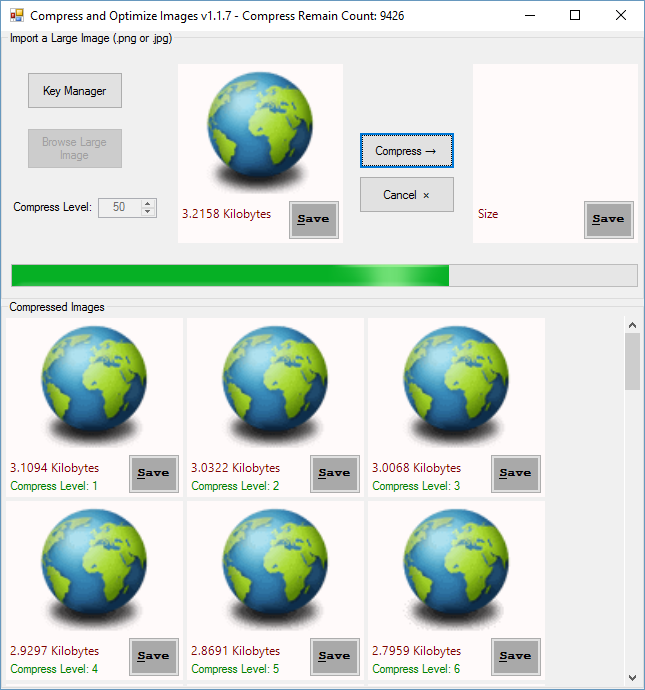
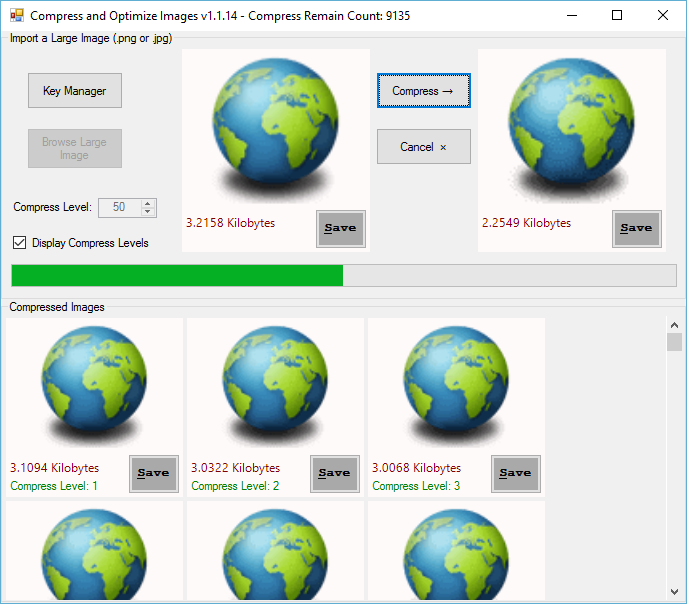
fix key count completed bugs

diff --git a/src/PiCompress/MainForm.Designer.cs b/src/PiCompress/MainForm.Designer.cs
@@ -29,6 +29,7 @@
         private void InitializeComponent()
         {
             this.gbImportImage = new System.Windows.Forms.GroupBox();
+            this.chkDisplayLevelsResult = new System.Windows.Forms.CheckBox();
             this.btnCancel = new System.Windows.Forms.Button();
             this.btnKeyManager = new System.Windows.Forms.Button();
             this.procCompressLevel = new System.Windows.Forms.ProgressBar();
@@ -47,6 +48,7 @@
             // 
             // gbImportImage
             // 
+            this.gbImportImage.Controls.Add(this.chkDisplayLevelsResult);
             this.gbImportImage.Controls.Add(this.btnCancel);
             this.gbImportImage.Controls.Add(this.btnKeyManager);
             this.gbImportImage.Controls.Add(this.picOutput);
@@ -61,17 +63,29 @@
             this.gbImportImage.Margin = new System.Windows.Forms.Padding(4);
             this.gbImportImage.Name = "gbImportImage";
             this.gbImportImage.Padding = new System.Windows.Forms.Padding(4);
-            this.gbImportImage.Size = new System.Drawing.Size(857, 331);
+            this.gbImportImage.Size = new System.Drawing.Size(911, 331);
             this.gbImportImage.TabIndex = 0;
             this.gbImportImage.TabStop = false;
             this.gbImportImage.Text = "Import a Large Image (.png or .jpg)";
+            // 
+            // chkDisplayLevelsResult
+            // 
+            this.chkDisplayLevelsResult.AutoSize = true;
+            this.chkDisplayLevelsResult.Checked = true;
+            this.chkDisplayLevelsResult.CheckState = System.Windows.Forms.CheckState.Checked;
+            this.chkDisplayLevelsResult.Location = new System.Drawing.Point(16, 251);
+            this.chkDisplayLevelsResult.Name = "chkDisplayLevelsResult";
+            this.chkDisplayLevelsResult.Size = new System.Drawing.Size(188, 21);
+            this.chkDisplayLevelsResult.TabIndex = 11;
+            this.chkDisplayLevelsResult.Text = "Display Compress Levels";
+            this.chkDisplayLevelsResult.UseVisualStyleBackColor = true;
             // 
             // btnCancel
             // 
             this.btnCancel.Anchor = System.Windows.Forms.AnchorStyles.Top;
             this.btnCancel.Cursor = System.Windows.Forms.Cursors.Hand;
             this.btnCancel.Enabled = false;
-            this.btnCancel.Location = new System.Drawing.Point(478, 178);
+            this.btnCancel.Location = new System.Drawing.Point(498, 119);
             this.btnCancel.Margin = new System.Windows.Forms.Padding(4);
             this.btnCancel.Name = "btnCancel";
             this.btnCancel.Size = new System.Drawing.Size(128, 46);
@@ -99,7 +113,7 @@
             this.procCompressLevel.Location = new System.Drawing.Point(13, 287);
             this.procCompressLevel.Margin = new System.Windows.Forms.Padding(4);
             this.procCompressLevel.Name = "procCompressLevel";
-            this.procCompressLevel.Size = new System.Drawing.Size(836, 28);
+            this.procCompressLevel.Size = new System.Drawing.Size(885, 28);
             this.procCompressLevel.TabIndex = 5;
             // 
             // btnCompress
@@ -107,7 +121,7 @@
             this.btnCompress.Anchor = System.Windows.Forms.AnchorStyles.Top;
             this.btnCompress.Cursor = System.Windows.Forms.Cursors.Hand;
             this.btnCompress.Enabled = false;
-            this.btnCompress.Location = new System.Drawing.Point(478, 124);
+            this.btnCompress.Location = new System.Drawing.Point(498, 51);
             this.btnCompress.Margin = new System.Windows.Forms.Padding(4);
             this.btnCompress.Name = "btnCompress";
             this.btnCompress.Size = new System.Drawing.Size(128, 46);
@@ -170,7 +184,7 @@
             this.gbResult.Margin = new System.Windows.Forms.Padding(4);
             this.gbResult.Name = "gbResult";
             this.gbResult.Padding = new System.Windows.Forms.Padding(4);
-            this.gbResult.Size = new System.Drawing.Size(857, 291);
+            this.gbResult.Size = new System.Drawing.Size(911, 336);
             this.gbResult.TabIndex = 1;
             this.gbResult.TabStop = false;
             this.gbResult.Text = "Compressed Images";
@@ -182,35 +196,35 @@
             this.flPanel.Location = new System.Drawing.Point(4, 19);
             this.flPanel.Margin = new System.Windows.Forms.Padding(4);
             this.flPanel.Name = "flPanel";
-            this.flPanel.Size = new System.Drawing.Size(849, 268);
+            this.flPanel.Size = new System.Drawing.Size(903, 313);
             this.flPanel.TabIndex = 0;
             // 
             // picOutput
             // 
             this.picOutput.Anchor = ((System.Windows.Forms.AnchorStyles)((System.Windows.Forms.AnchorStyles.Top | System.Windows.Forms.AnchorStyles.Right)));
             this.picOutput.BackColor = System.Drawing.Color.Snow;
-            this.picOutput.Location = new System.Drawing.Point(629, 41);
+            this.picOutput.Location = new System.Drawing.Point(633, 22);
             this.picOutput.Name = "picOutput";
-            this.picOutput.Size = new System.Drawing.Size(220, 220);
+            this.picOutput.Size = new System.Drawing.Size(250, 250);
             this.picOutput.TabIndex = 8;
             // 
             // picInput
             // 
             this.picInput.BackColor = System.Drawing.Color.Snow;
-            this.picInput.Location = new System.Drawing.Point(236, 41);
+            this.picInput.Location = new System.Drawing.Point(241, 22);
             this.picInput.Name = "picInput";
-            this.picInput.Size = new System.Drawing.Size(220, 220);
+            this.picInput.Size = new System.Drawing.Size(250, 250);
             this.picInput.TabIndex = 7;
             // 
             // MainForm
             // 
             this.AutoScaleDimensions = new System.Drawing.SizeF(8F, 16F);
             this.AutoScaleMode = System.Windows.Forms.AutoScaleMode.Font;
-            this.ClientSize = new System.Drawing.Size(857, 622);
+            this.ClientSize = new System.Drawing.Size(911, 667);
             this.Controls.Add(this.gbResult);
             this.Controls.Add(this.gbImportImage);
             this.Margin = new System.Windows.Forms.Padding(4);
-            this.MinimumSize = new System.Drawing.Size(844, 518);
+            this.MinimumSize = new System.Drawing.Size(929, 515);
             this.Name = "MainForm";
             this.Text = "Form1";
             this.Load += new System.EventHandler(this.MainForm_Load);
@@ -236,6 +250,7 @@
         private ImageInfo picInput;
         private System.Windows.Forms.Button btnKeyManager;
         private System.Windows.Forms.Button btnCancel;
+        private System.Windows.Forms.CheckBox chkDisplayLevelsResult;
     }
 }
 

diff --git a/src/PiCompress/MainForm.cs b/src/PiCompress/MainForm.cs
@@ -15,7 +15,7 @@ namespace PiCompress
         private int _lastComressionLevel = 0;
         private CancellationTokenSource _cts;
         private string _appVersion;
-        
+
         public MainForm()
         {
             InitializeComponent();
@@ -30,6 +30,7 @@ namespace PiCompress
             gbResult.Text = Localization.CompressedImages;
             btnKeyManager.Text = Localization.KeyManager;
             btnCancel.Text = $"{Localization.Cancel} {Localization.CancelSymbol}";
+            chkDisplayLevelsResult.Text = Localization.DisplayCompressLevels;
             Text = $"{Localization.AppTitle} {_appVersion}";
         }
 
@@ -50,12 +51,15 @@ namespace PiCompress
             _lastComressionLevel = compressLevel;
             var elapsedPercent = ((int)numCompressLevel.Value).GetPercent(compressLevel);
             procCompressLevel.Value = (int)elapsedPercent;
+            Text = $"{Localization.AppTitle} {_appVersion} - {Localization.CompressRemainCount}: {_lstKeys.Sum(x => x.CompressRemainCount)}";
 
-            var pic = new ImageInfo(compressLevel);
-            pic.SetImage(currentLevelImage);
 
-            this.Text = $"{Localization.AppTitle} {_appVersion} - {Localization.CompressRemainCount}: {_lstKeys.Sum(x => x.CompressRemainCount)}";
-            flPanel.Controls.Add(pic);
+            if (chkDisplayLevelsResult.Checked)
+            {
+                var pic = new ImageInfo(compressLevel);
+                pic.SetImage(currentLevelImage);
+                flPanel.Controls.Add(pic);
+            }
         }
         private async void MainForm_Load(object sender, EventArgs e)
         {
@@ -100,7 +104,7 @@ namespace PiCompress
                 var result = await tinify.CompressAsync(_cts = new CancellationTokenSource());
                 picOutput.SetImage(result);
                 procCompressLevel.Value = procCompressLevel.Maximum;
-                MessageBox.Show(_cts.IsCancellationRequested 
+                MessageBox.Show(_cts.IsCancellationRequested
                     ? Localization.ProcessCanceledByUser
                     : _lastComressionLevel < numCompressLevel.Value
                     ? Localization.MoreNotCompact_CompresstionCompleted

diff --git a/src/PiCompress/TinifyImage.cs b/src/PiCompress/TinifyImage.cs
@@ -29,7 +29,7 @@ namespace PiCompress
             SourceImagePath = sourceImgPath;
             RepeatCompressionNumber = repeatCompressionNo;
         }
-        public TinifyImage(List<TinifyApiKeyPair> tinifyApiKeys, string sourceImgPath): this(tinifyApiKeys, sourceImgPath, 1) { }
+        public TinifyImage(List<TinifyApiKeyPair> tinifyApiKeys, string sourceImgPath) : this(tinifyApiKeys, sourceImgPath, 1) { }
         public TinifyImage(List<TinifyApiKeyPair> tinifyApiKeys, string sourceImgPath, int repeatCompressionNo)
         {
             ApiKeys = tinifyApiKeys;
@@ -47,8 +47,16 @@ namespace PiCompress
         public async Task<byte[]> CompressAsync(CancellationTokenSource cts)
         {
             var resImg = File.ReadAllBytes(SourceImagePath);
-
             long lastCompressedSize = 0;
+            //
+            // Check if api keys have enough compress remain count
+            while (ApiKeys.Any())
+            {
+                ApiKeys[0].CompressCount = await CompressRemainCountAsync(ApiKeys[0].Key);
+                if (ApiKeys[0].CompressRemainCount <= 0) ApiKeys.RemoveAt(0);
+                else break;
+            }
+
             for (var repeatCount = 1; repeatCount <= RepeatCompressionNumber; repeatCount++)
             {
                 using (var client = new WebClient())
@@ -81,7 +89,7 @@ namespace PiCompress
             EndOfCompress:
             return resImg;
         }
-        
+
 
         public int CompressRemainCount()
         {

diff --git a/src/PiCompress/Properties/Localization.Designer.cs b/src/PiCompress/Properties/Localization.Designer.cs
@@ -151,6 +151,15 @@ namespace PiCompress.Properties {
         }
         
         /// <summary>
+        ///   Looks up a localized string similar to Display Compress Levels.
+        /// </summary>
+        internal static string DisplayCompressLevels {
+            get {
+                return ResourceManager.GetString("DisplayCompressLevels", resourceCulture);
+            }
+        }
+        
+        /// <summary>
         ///   Looks up a localized string similar to Image Files (*.png, *.jpg)|*.png;*.jpg.
         /// </summary>
         internal static string FilterImageFiles {

diff --git a/src/PiCompress/Properties/AssemblyInfo.cs b/src/PiCompress/Properties/AssemblyInfo.cs
@@ -32,5 +32,5 @@ using System.Runtime.InteropServices;
 // You can specify all the values or you can default the Build and Revision Numbers 
 // by using the '*' as shown below:
 // [assembly: AssemblyVersion("1.0.*")]
-[assembly: AssemblyVersion("1.1.10")]
-[assembly: AssemblyFileVersion("1.1.10")]
+[assembly: AssemblyVersion("1.1.14")]
+[assembly: AssemblyFileVersion("1.1.14")]
